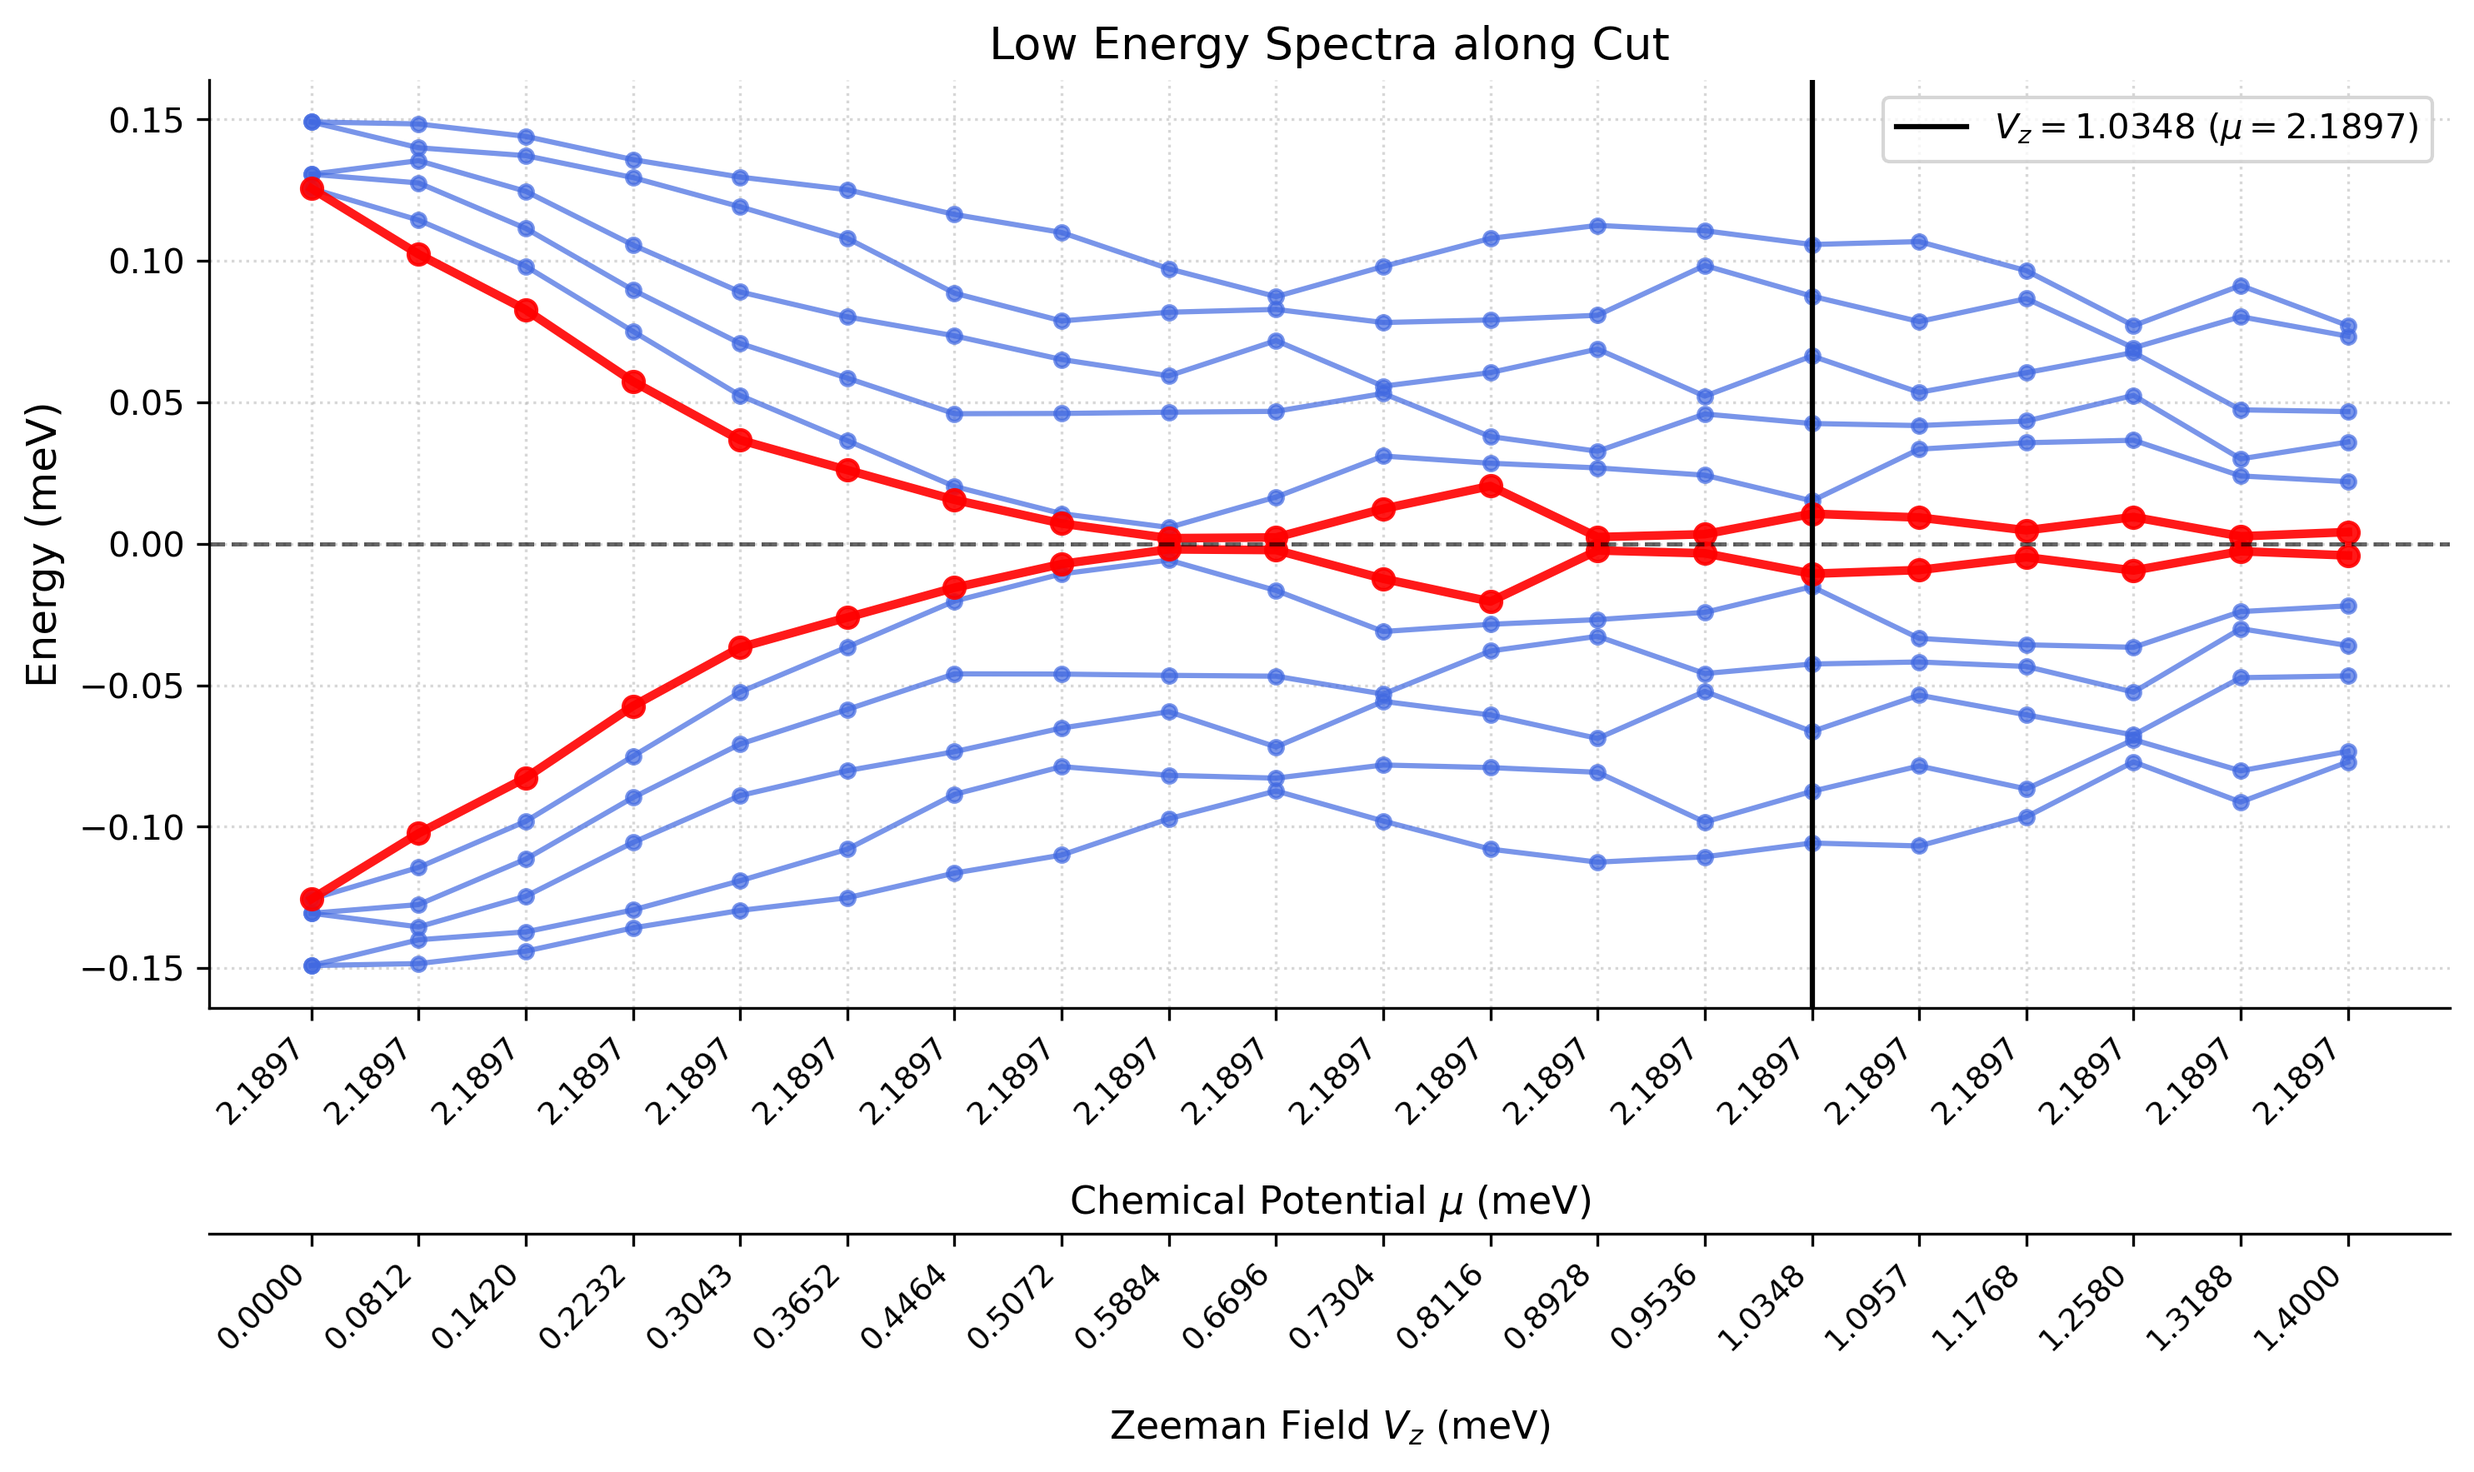
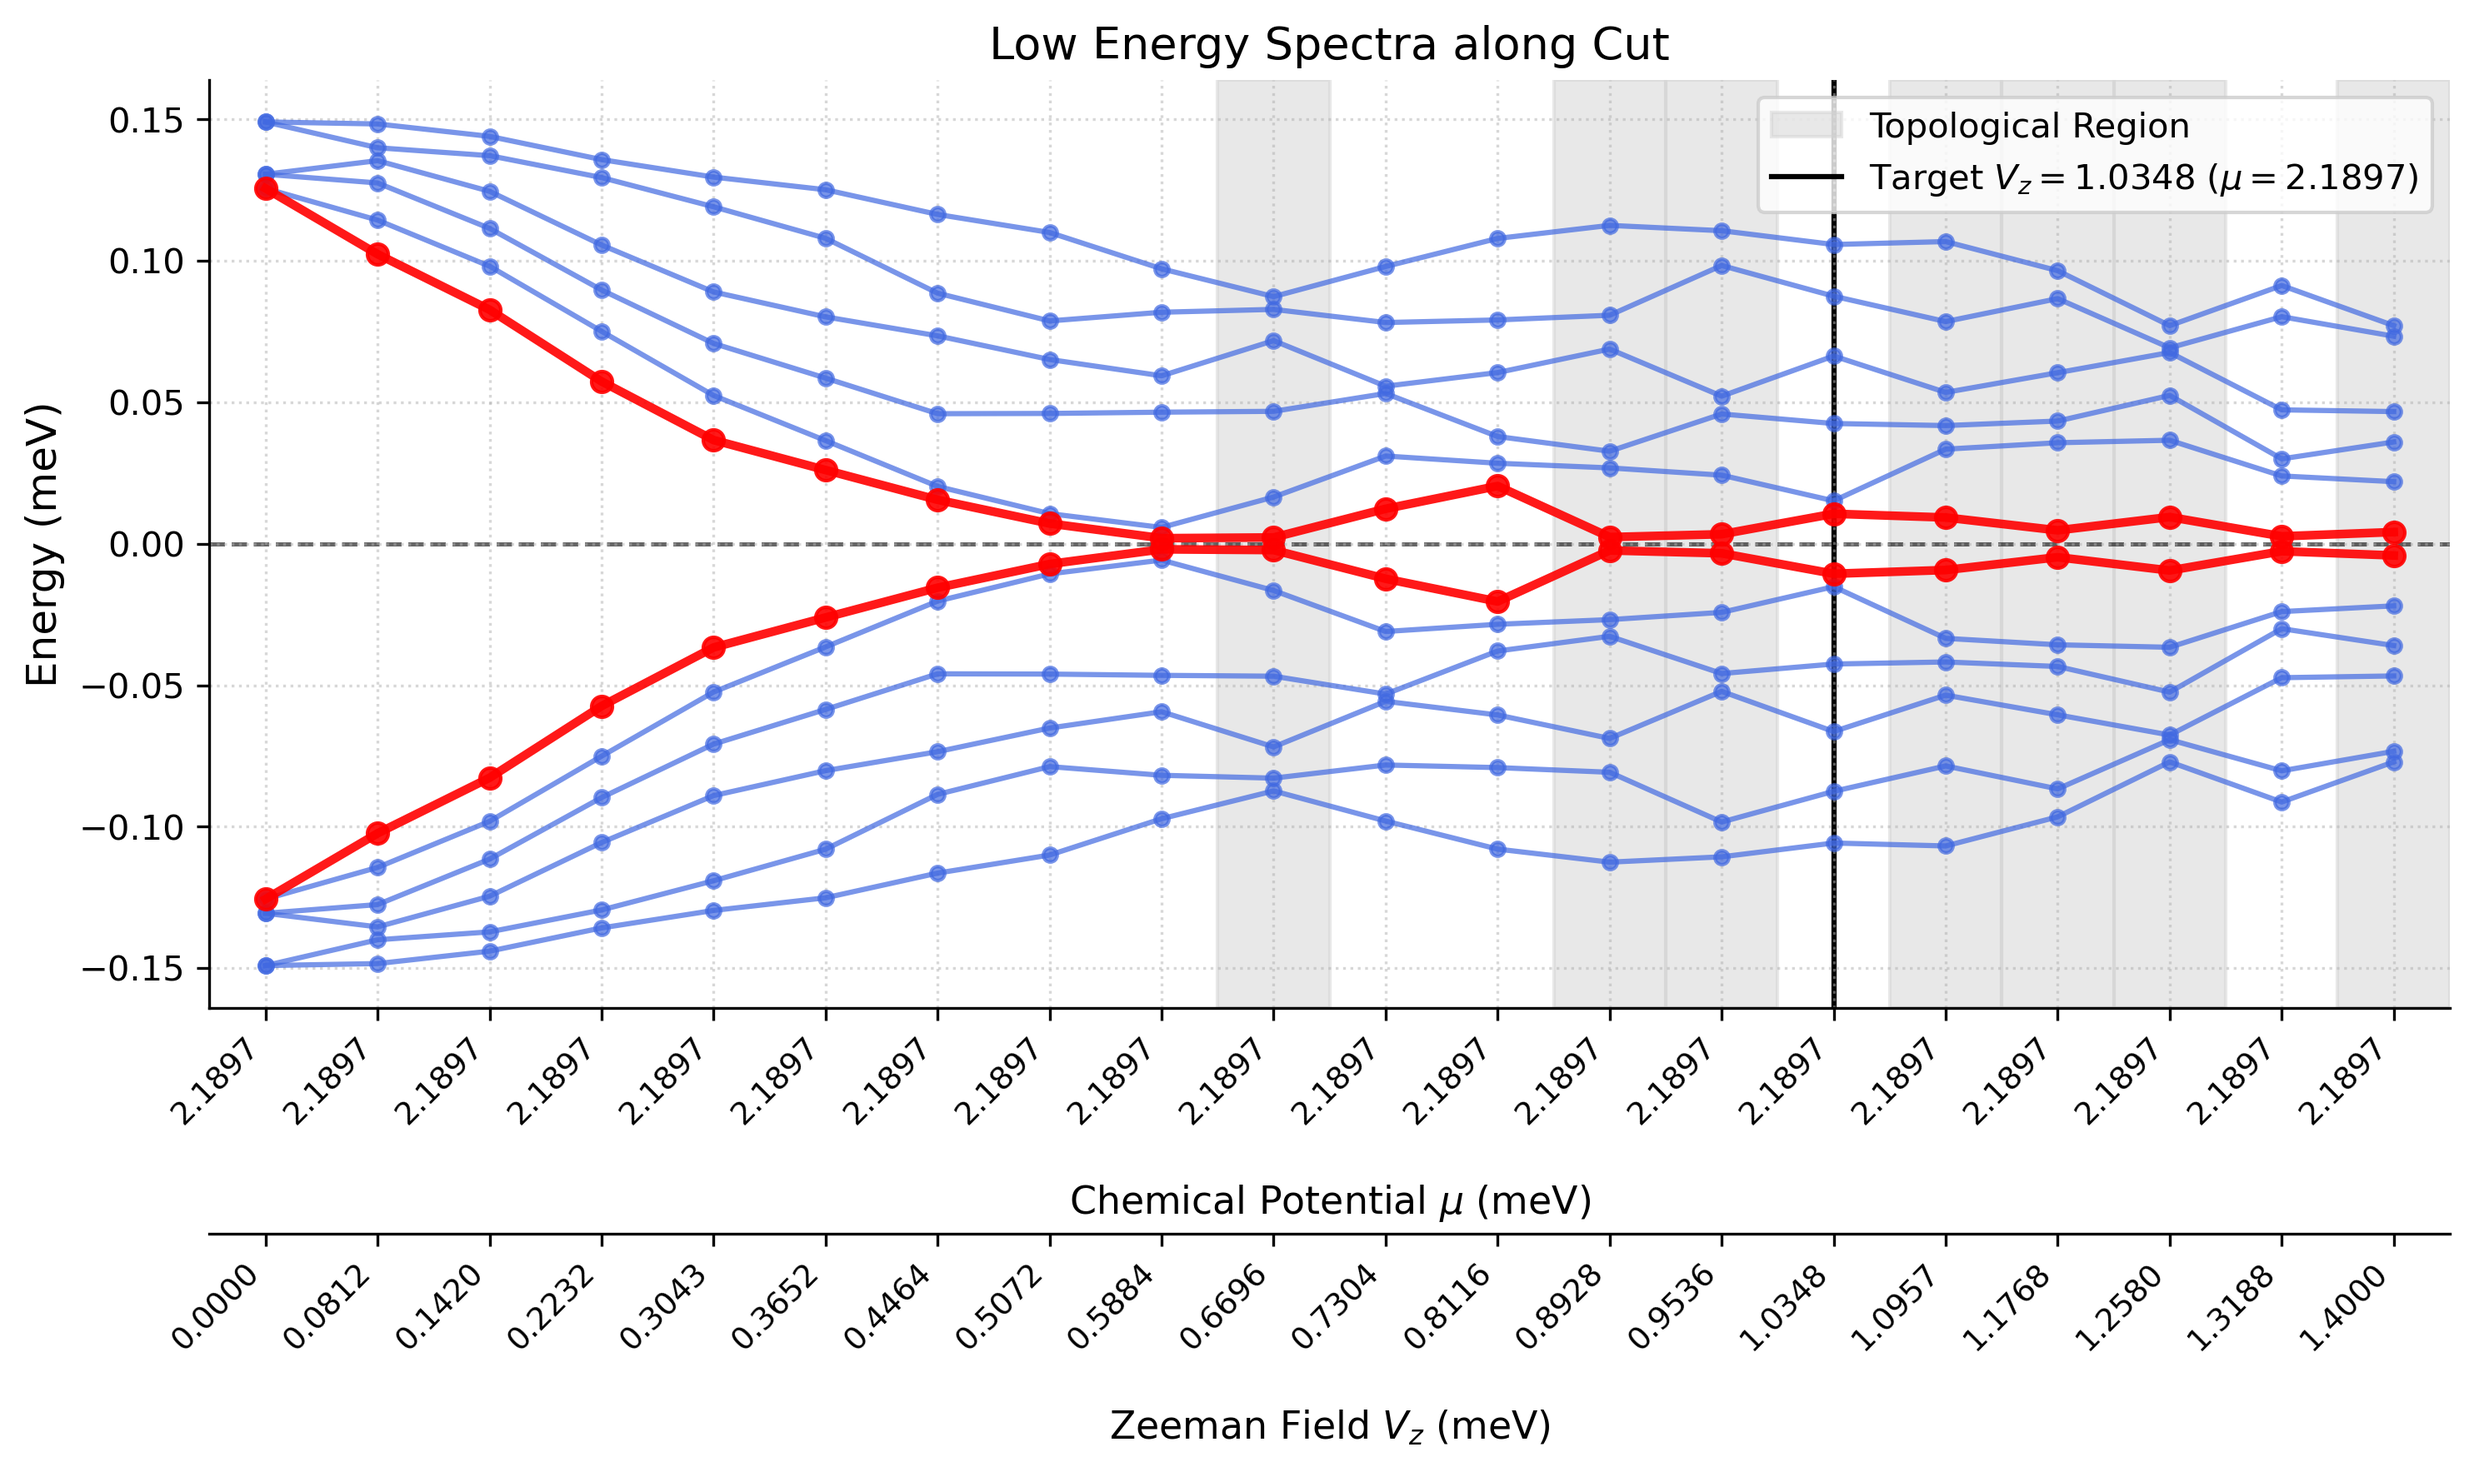
update plot spectra

diff --git a/plot_spectra.py b/plot_spectra.py
@@ -129,8 +129,9 @@ def main():
     print(f"Sampled {actual_N} points along the path.")
 
     # Step 2: Physics Calculation
-    print(f"Calculating closed system spectra for {actual_N} points (kvals={args.kvals})...")
+    print(f"Calculating closed system spectra and Pfaffian invariants for {actual_N} points...")
     evals = np.zeros(shape=(actual_N, args.kvals))
+    pf_invariants = np.zeros(actual_N)
 
     for i in range(actual_N):
         mu_val, vz_val = pts[i]
@@ -138,10 +139,36 @@ def main():
         scl = hp.build_system_closed(t, mu_val, gamma, Delta0, vz_val, alpha, Ls, Vdisx, a=1)
         # Calculate spectrum
         evals[i, :] = hp.calc_spectrum(scl, k=args.kvals)
+        # Calculate Pfaffian invariant
+        pf_invariants[i] = hp.cal_pfaffian_invariant(
+            ts=t,
+            alphas=alpha,
+            gamma=gamma,
+            delta0=Delta0,
+            Nx=Ls,
+            Vdisx=Vdisx,
+            V0=1.0,
+            gm=vz_val,
+            mu=mu_val
+        )
 
     # Step 3: Dual X-Axis Visualization
     print("Visualizing results...")
     fig, ax = plt.subplots(figsize=(10, 6), dpi=150)
+
+    # Highlight topological regions (non-zero Pfaffian invariant) in light grey
+    topological_added_to_legend = False
+    for i in range(actual_N):
+        if np.abs(pf_invariants[i]) > 1e-5:
+            # Span from i-0.5 to i+0.5
+            if not topological_added_to_legend:
+                ax.axvspan(i - 0.5, i + 0.5, color='lightgrey', alpha=0.5, zorder=0, label="Topological Region")
+                topological_added_to_legend = True
+            else:
+                ax.axvspan(i - 0.5, i + 0.5, color='lightgrey', alpha=0.5, zorder=0)
+
+    # Ensure limits align with the span coloring
+    ax.set_xlim(-0.5, actual_N - 0.5)
 
     # Plot the eigenvalues
     mid_idx = args.kvals // 2
@@ -149,29 +176,29 @@ def main():
     # Plot bulk states in standard blue
     # States below E=0 (indices 0 to mid_idx-2)
     for j in range(mid_idx - 1):
-        ax.plot(range(actual_N), evals[:, j], 'o-', color='royalblue', alpha=0.7, linewidth=1.5, markersize=4)
+        ax.plot(range(actual_N), evals[:, j], 'o-', color='royalblue', alpha=0.7, linewidth=1.5, markersize=4, zorder=2)
     # States above E=0 (indices mid_idx+1 to kvals-1)
     for j in range(mid_idx + 1, args.kvals):
-        ax.plot(range(actual_N), evals[:, j], 'o-', color='royalblue', alpha=0.7, linewidth=1.5, markersize=4)
+        ax.plot(range(actual_N), evals[:, j], 'o-', color='royalblue', alpha=0.7, linewidth=1.5, markersize=4, zorder=2)
 
     # Plot the two states closest to E=0 (indices mid_idx-1 and mid_idx) in red with a thicker line width
-    ax.plot(range(actual_N), evals[:, mid_idx - 1], 'o-', color='red', alpha=0.9, linewidth=2.5, markersize=6)
-    ax.plot(range(actual_N), evals[:, mid_idx], 'o-', color='red', alpha=0.9, linewidth=2.5, markersize=6)
+    ax.plot(range(actual_N), evals[:, mid_idx - 1], 'o-', color='red', alpha=0.9, linewidth=2.5, markersize=6, zorder=3)
+    ax.plot(range(actual_N), evals[:, mid_idx], 'o-', color='red', alpha=0.9, linewidth=2.5, markersize=6, zorder=3)
 
     # Add reference lines
-    ax.axhline(0, color='black', linestyle='--', linewidth=1.2, alpha=0.6)
+    ax.axhline(0, color='black', linestyle='--', linewidth=1.2, alpha=0.6, zorder=1)
 
     # Find the index closest to target_vz
     vz_values = pts[:, 1]
     closest_vz_idx = np.argmin(np.abs(vz_values - args.target_vz))
     target_mu_val = pts[closest_vz_idx, 0]
-    ax.axvline(closest_vz_idx, color='black', linestyle='-', linewidth=1.5,
-               label=f"$V_z = {vz_values[closest_vz_idx]:.4f}$ ($\mu = {target_mu_val:.4f}$)")
+    ax.axvline(closest_vz_idx, color='black', linestyle='-', linewidth=1.5, zorder=1,
+               label=rf"Target $V_z = {vz_values[closest_vz_idx]:.4f}$ ($\mu = {target_mu_val:.4f}$)")
 
     # Set labels and formatting
     ax.set_ylabel("Energy (meV)", fontsize=12)
     ax.set_title(f"Low Energy Spectra along Cut", fontsize=13)
-    ax.grid(True, linestyle=':', alpha=0.5)
+    ax.grid(True, linestyle=':', alpha=0.5, zorder=1)
 
     # Primary X-Axis (mu)
     ax.set_xticks(range(actual_N))
